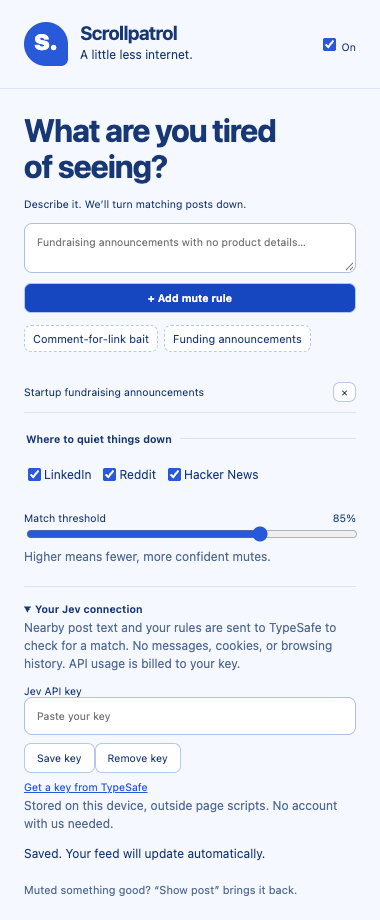
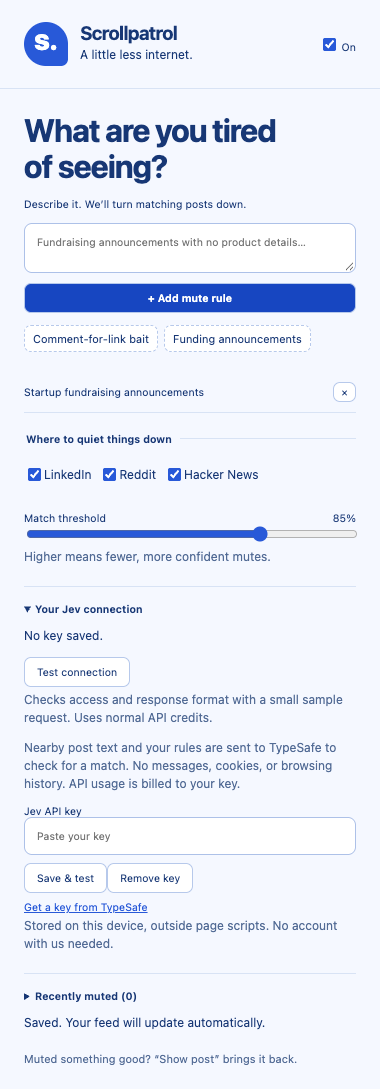
Add verified TypeSafe connection checks and muted post history

diff --git a/src/background.ts b/src/background.ts
@@ -2,8 +2,43 @@ import {normalize,requestFor,decision,siteFor} from './core';
 const ready=chrome.storage.local.setAccessLevel({accessLevel:'TRUSTED_CONTEXTS'});
 const cache=new Map<string,ReturnType<typeof decision>>();
 let chain:Promise<unknown>=Promise.resolve();
+let historyChain:Promise<unknown>=Promise.resolve();
 let backoffUntil=0;
+async function evaluate(apiKey:string,text:string,rules:string[],threshold:number){
+  const res=await fetch('https://api.typesafe.ai/v1/systemone',{method:'POST',headers:{Authorization:`Bearer ${apiKey}`,'Content-Type':'application/json'},body:JSON.stringify(requestFor(text,rules)),signal:AbortSignal.timeout(15000)});
+  if(!res.ok)throw new Error(res.status===401||res.status===403?'TypeSafe rejected this key. Check the key and account access.':res.status===429?'TypeSafe rate limit reached. Wait a moment and try again.':`TypeSafe unavailable (HTTP ${res.status}). Try again shortly.`);
+  return decision((await res.json()).answers,rules,threshold);
+}
+function errorText(e:unknown){return e instanceof Error?(e.name==='TimeoutError'?'TypeSafe timed out. Check your connection and try again.':e.message):'Connection failed. Try again.';}
 chrome.runtime.onMessage.addListener((msg,sender,reply)=>{
+  if(msg?.type==='testConnection'){
+    if(sender.url!==chrome.runtime.getURL('popup.html'))return;
+    void (async()=>{
+      await ready;
+      const {apiKey}=await chrome.storage.local.get('apiKey');
+      if(typeof apiKey!=='string'||!apiKey){reply({ok:false,error:'Add a Jev API key first.'});return;}
+      const started=Date.now();
+      try{
+        await evaluate(apiKey,'We raised a seed round to build our startup.',['Startup fundraising announcements'],.85);
+        if((await chrome.storage.local.get('apiKey')).apiKey!==apiKey){reply({ok:false,error:'Key changed. Test the current key again.'});return;}
+        const connection={ok:true,checkedAt:Date.now(),latencyMs:Date.now()-started};
+        await chrome.storage.local.set({connection});await chrome.storage.local.remove('lastError');backoffUntil=0;reply(connection);
+      }catch(e){const error=errorText(e);if((await chrome.storage.local.get('apiKey')).apiKey===apiKey)await chrome.storage.local.set({connection:{ok:false,checkedAt:Date.now(),error}});reply({ok:false,error});}
+    })();return true;
+  }
+  if(msg?.type==='recordHidden'){
+    const job=historyChain.then(async()=>{
+      await ready;
+      const site=siteFor(new URL(sender.url||'https://invalid').hostname);
+      if(!sender.tab||!site||typeof msg.text!=='string'||typeof msg.rule!=='string')return;
+      let url='';
+      try{const candidate=new URL(msg.url);if(candidate.protocol==='https:'&&siteFor(candidate.hostname)===site)url=candidate.href;}catch{}
+      const {hiddenPosts=[]}=await chrome.storage.local.get('hiddenPosts');
+      const entry={text:msg.text.slice(0,240),rule:msg.rule.slice(0,200),score:typeof msg.score==='number'&&Number.isFinite(msg.score)?Math.max(0,Math.min(1,msg.score)):0,url,site,hiddenAt:Date.now()};
+      const old=Array.isArray(hiddenPosts)?hiddenPosts:[];
+      await chrome.storage.local.set({hiddenPosts:[entry,...old.filter(p=>url?p.url!==url:p.text!==entry.text||p.site!==site)].slice(0,50)});
+    });historyChain=job.catch(()=>{});job.then(()=>reply({ok:true})).catch(()=>reply({ok:false}));return true;
+  }
   if(msg?.type!=='classify') return;
   const run=async()=>{
     await ready;
@@ -12,24 +47,24 @@ chrome.runtime.onMessage.addListener((msg,sender,reply)=>{
     const {settings,apiKey}=await chrome.storage.local.get(['settings','apiKey']);
     const config=normalize(settings);
     if(!config.enabled||!config.sites[site]||!config.rules.length) return {muted:false};
-    if(!apiKey) throw new Error('Add your Jev API key in Scrollpatrol.');
+    if(typeof apiKey!=='string'||!apiKey) throw new Error('Add your Jev API key in Scrollpatrol.');
     const key=JSON.stringify([msg.text,config.rules,config.threshold]);
     if(cache.has(key)) return cache.get(key);
     if(Date.now()<backoffUntil) throw new Error('API paused after an error. Try again shortly.');
-    const res=await fetch('https://api.typesafe.ai/v1/systemone',{method:'POST',headers:{Authorization:`Bearer ${apiKey}`,'Content-Type':'application/json'},body:JSON.stringify(requestFor(msg.text,config.rules)),signal:AbortSignal.timeout(15000)});
-    if(!res.ok){backoffUntil=Date.now()+60000;throw new Error(res.status===401?'Invalid Jev API key. Update it in Scrollpatrol.':`Jev unavailable (${res.status}). Posts remain visible.`);}
-    const result=decision((await res.json()).answers,config.rules,config.threshold);
+    let result;
+    try{result=await evaluate(apiKey,msg.text,config.rules,config.threshold);}catch(e){backoffUntil=Date.now()+60000;throw e;}
     if(cache.size>=1000) cache.delete(cache.keys().next().value!);
     cache.set(key,result);
     await chrome.storage.local.remove('lastError');
     return result;
   };
   const job=chain.then(run); chain=job.catch(()=>{});
-  job.then(reply).catch(async e=>{const error=e instanceof Error?e.message:'Classification failed';await chrome.storage.local.set({lastError:error});reply({muted:false,error});});
+  job.then(reply).catch(async e=>{const error=errorText(e);await chrome.storage.local.set({lastError:error});reply({muted:false,error});});
   return true;
 });
 chrome.storage.onChanged.addListener((changes)=>{
   if(!changes.settings&&!changes.apiKey)return;
   cache.clear();backoffUntil=0;
+  if(changes.apiKey)void chrome.storage.local.remove('connection');
   void chrome.tabs.query({}).then(tabs=>{for(const tab of tabs)if(tab.id)void chrome.tabs.sendMessage(tab.id,{type:'settingsChanged'}).catch(()=>{});});
 });

diff --git a/src/popup.ts b/src/popup.ts
@@ -11,14 +11,42 @@ function render(){
   $<HTMLInputElement>('threshold').value=String(Math.round(config.threshold*100));$('threshold-value').textContent=`${Math.round(config.threshold*100)}%`;
 }
 async function add(rule:string){if(config.rules.length>=10){status('Up to 10 rules for now. Remove one to add another.');return;}if(!rule.trim()||config.rules.includes(rule.trim()))return;config.rules.push(rule.trim().slice(0,200));render();await save();}
-async function init(){const data=await chrome.storage.local.get(['settings','apiKey','lastError']);config=normalize(data.settings);render();$<HTMLDetailsElement>('setup').open=!data.apiKey;status(typeof data.lastError==='string'?data.lastError: (data.apiKey?'Connected. Ready to quiet your feed.':'Add a Jev key to start muting.'));
+async function init(){const data=await chrome.storage.local.get(['settings','apiKey','lastError']);config=normalize(data.settings);render();$<HTMLDetailsElement>('setup').open=!data.apiKey;status(typeof data.lastError==='string'?data.lastError: (data.apiKey?'':'Add a Jev key to start muting.'));
+  await renderDiagnostics();
+  $('test-connection').onclick=()=>{void testConnection();};
+  $('clear-history').onclick=async()=>{await chrome.storage.local.remove('hiddenPosts');await renderDiagnostics();};
+  chrome.storage.onChanged.addListener(changes=>{if(changes.connection||changes.hiddenPosts||changes.apiKey)void renderDiagnostics();if(changes.lastError)status(typeof changes.lastError.newValue==='string'?changes.lastError.newValue:'');});
   $('rule-form').onsubmit=async e=>{e.preventDefault();await add($<HTMLTextAreaElement>('rule').value);$<HTMLTextAreaElement>('rule').value='';};
   document.querySelectorAll<HTMLButtonElement>('[data-rule]').forEach(b=>b.onclick=()=>{void add(b.dataset.rule!);});
   $<HTMLInputElement>('enabled').onchange=async e=>{config.enabled=(e.target as HTMLInputElement).checked;await save();};
   for(const site of ['linkedin','reddit','hn'] as Site[])$<HTMLInputElement>(site).onchange=async e=>{config.sites[site]=(e.target as HTMLInputElement).checked;await save();};
   $<HTMLInputElement>('threshold').oninput=e=>{$('threshold-value').textContent=`${(e.target as HTMLInputElement).value}%`;};
   $<HTMLInputElement>('threshold').onchange=async e=>{config.threshold=Number((e.target as HTMLInputElement).value)/100;await save();};
-  $('key-form').onsubmit=async e=>{e.preventDefault();const key=$<HTMLInputElement>('key');if(!key.value.trim()){status('Paste a key first.');return;}await chrome.storage.local.set({apiKey:key.value.trim()});await chrome.storage.local.remove('lastError');key.value='';status('Key saved. It will be checked on the next feed post.');};
-  $('clear-key').onclick=async()=>{await chrome.storage.local.remove('apiKey');status('Key removed. Posts will remain visible.');};
+  $('key-form').onsubmit=async e=>{e.preventDefault();const key=$<HTMLInputElement>('key');if(!key.value.trim()){status('Paste a key first.');return;}await chrome.storage.local.set({apiKey:key.value.trim()});await chrome.storage.local.remove('lastError');key.value='';await testConnection();};
+  $('clear-key').onclick=async()=>{await chrome.storage.local.remove('apiKey');await chrome.storage.local.remove(['connection','lastError']);await renderDiagnostics();status('Key removed. Posts will remain visible.');};
+}
+async function renderDiagnostics(){
+  const data=await chrome.storage.local.get(['connection','apiKey','hiddenPosts']);
+  const connection=data.connection as {ok:boolean;checkedAt:number;latencyMs?:number;error?:string}|undefined;
+  $('connection-status').textContent=!data.apiKey?'No key saved.':!connection?'Key saved — not tested yet.':connection.ok?`Connection verified · ${connection.latencyMs} ms. Jev returned a valid response at ${new Date(connection.checkedAt).toLocaleString()}.`: `Connection failed: ${connection.error}`;
+  $('connection-status').dataset.state=connection?.ok?'success':connection?'error':'pending';
+  const entries=Array.isArray(data.hiddenPosts)?data.hiddenPosts:[];
+  $('hidden-count').textContent=`(${entries.length})`;
+  $('hidden-posts').replaceChildren();
+  if(!entries.length){const li=document.createElement('li');li.textContent='No muted posts recorded yet.';$('hidden-posts').append(li);}
+  for(const entry of entries){
+    const li=document.createElement('li'),title=document.createElement(entry.url?'a':'span'),meta=document.createElement('small');
+    title.textContent=entry.text;
+    if(title instanceof HTMLAnchorElement){try{const url=new URL(entry.url);if(url.protocol==='https:'){title.href=url.href;title.target='_blank';title.rel='noopener noreferrer';}}catch{}}
+    meta.textContent=`${entry.site} · ${new Date(entry.hiddenAt).toLocaleString()} · ${Math.round(entry.score*100)}% match\nRule: ${entry.rule}${entry.url?'':' · Post link unavailable'}`;
+    li.append(title,meta);$('hidden-posts').append(li);
+  }
+}
+async function testConnection(){
+  const button=$<HTMLButtonElement>('test-connection');button.disabled=true;button.textContent='Testing…';
+  $('connection-status').textContent='Checking TypeSafe with a small sample post…';
+  try{const result=await chrome.runtime.sendMessage({type:'testConnection'});await renderDiagnostics();if(!result?.ok)$('connection-status').textContent=result?.error||'Connection check failed. Try again.';}
+  catch{$('connection-status').textContent='Could not reach the extension. Reload it and try again.';}
+  finally{button.disabled=false;button.textContent='Test connection';}
 }
 void init();

diff --git a/tests/core.test.ts b/tests/core.test.ts
@@ -1,7 +1,7 @@
 import {describe,it,expect} from 'vitest';
 import {JSDOM} from 'jsdom';
 import {normalize,requestFor,decision,siteFor} from '../src/core';
-import {posts,postText,related} from '../src/adapters';
+import {posts,postText,related,postUrl} from '../src/adapters';
 describe('classification',()=>{
  it('only mutes valid scores above the chosen threshold',()=>{expect(decision({r0:{type:'noul',noul:.9}},['fundraising'],.85).muted).toBe(true);expect(decision({r0:{type:'noul',noul:.7}},['fundraising'],.85).muted).toBe(false);});
  it('rejects missing, malformed and out-of-range answers',()=>{for(const a of [{},{r0:{type:'noul',noul:2}},{r0:{type:'noul',noul:NaN}},{r0:{type:'choice',noul:.9}}])expect(()=>decision(a,['x'],.85)).toThrow();});
@@ -14,4 +14,11 @@ describe('site adapters',()=>{
  it('groups HN titles with their metadata, not the next post',()=>{const d=new JSDOM('<table><tr class="athing"><td><span class="titleline">Raised a seed round</span></td></tr><tr><td class="subtext">12 comments</td></tr><tr class="athing"><td><span class="titleline">Useful project</span></td></tr></table>').window.document;const p=posts(d,'hn');expect(p).toHaveLength(2);expect(postText(p[0],'hn')).toBe('Raised a seed round');expect(related(p[0],'hn')).toHaveLength(2);});
  it('extracts Reddit posts without comments',()=>{const d=new JSDOM('<shreddit-post post-title="Funding news"><p slot="title">Funding news</p><div slot="text-body">We raised money</div></shreddit-post><shreddit-comment>Comment</shreddit-comment>').window.document;expect(posts(d,'reddit')).toHaveLength(1);expect(postText(posts(d,'reddit')[0],'reddit')).toBe('Funding news We raised money');});
  it('extracts LinkedIn post body without action buttons',()=>{const d=new JSDOM('<div class="feed-shared-update-v2"><div class="update-components-text">My funding news</div><button>Like</button></div>').window.document;expect(postText(posts(d,'linkedin')[0],'linkedin')).toBe('My funding news');});
+});
+
+describe('post permalinks',()=>{
+ it('links to HN discussion instead of the external article',()=>{const d=new JSDOM('<table><tr class="athing" id="123"><td>Title</td></tr></table>').window.document;expect(postUrl(d.querySelector('tr')!,'hn')).toBe('https://news.ycombinator.com/item?id=123');});
+ it('resolves modern and old Reddit permalinks',()=>{const d=new JSDOM('<shreddit-post permalink="/r/test/comments/abc/title/"></shreddit-post><div class="thing link"><a class="comments" href="/r/test/comments/def/title/">comments</a></div>',{url:'https://www.reddit.com/'}).window.document;expect(postUrl(posts(d,'reddit')[0],'reddit')).toBe('https://www.reddit.com/r/test/comments/abc/title/');expect(postUrl(posts(d,'reddit')[1],'reddit')).toBe('https://www.reddit.com/r/test/comments/def/title/');});
+ it('builds LinkedIn activity links and leaves missing links empty',()=>{const d=new JSDOM('<div data-urn="urn:li:activity:123"></div><section></section>').window.document;expect(postUrl(d.querySelector('div')!,'linkedin')).toBe('https://www.linkedin.com/feed/update/urn:li:activity:123/');expect(postUrl(d.querySelector('section')!,'linkedin')).toBe('');});
+ it('rejects executable links',()=>{const d=new JSDOM('<shreddit-post permalink="javascript:alert(1)"></shreddit-post>').window.document;expect(postUrl(posts(d,'reddit')[0],'reddit')).toBe('');});
 });

diff --git a/public/popup.html b/public/popup.html
@@ -6,5 +6,6 @@
 <ul id="rules"></ul><p id="empty">Nothing muted yet. Add your first rule above.</p>
 <fieldset><legend>Where to quiet things down</legend><label><input id="linkedin" type="checkbox"> LinkedIn</label><label><input id="reddit" type="checkbox"> Reddit</label><label><input id="hn" type="checkbox"> Hacker News</label></fieldset>
 <label class="range" for="threshold">Match threshold <output id="threshold-value"></output></label><input id="threshold" type="range" min="50" max="99"><p class="hint">Higher means fewer, more confident mutes.</p>
-<details id="setup"><summary>Your Jev connection</summary><p class="hint">Nearby post text and your rules are sent to TypeSafe to check for a match. No messages, cookies, or browsing history. API usage is billed to your key.</p><form id="key-form"><label for="key">Jev API key</label><input id="key" type="password" autocomplete="off" placeholder="Paste your key"><button type="submit">Save key</button><button id="clear-key" type="button">Remove key</button></form><a href="https://console.typesafe.ai" target="_blank" rel="noreferrer">Get a key from TypeSafe</a><p class="hint">Stored on this device, outside page scripts. No account with us needed.</p></details>
+<details id="setup"><summary>Your Jev connection</summary><p id="connection-status" role="status" aria-live="polite"></p><button id="test-connection" type="button">Test connection</button><p class="hint">Checks access and response format with a small sample request. Uses normal API credits.</p><p class="hint">Nearby post text and your rules are sent to TypeSafe to check for a match. No messages, cookies, or browsing history. API usage is billed to your key.</p><form id="key-form"><label for="key">Jev API key</label><input id="key" type="password" autocomplete="off" placeholder="Paste your key"><button type="submit">Save &amp; test</button><button id="clear-key" type="button">Remove key</button></form><a href="https://console.typesafe.ai" target="_blank" rel="noreferrer">Get a key from TypeSafe</a><p class="hint">Stored on this device, outside page scripts. No account with us needed.</p></details>
+<details id="debug"><summary>Recently muted <span id="hidden-count"></span></summary><p class="hint">Last 50 posts muted on this device. Includes posts you later revealed. Kept until cleared; links open the original post.</p><ul id="hidden-posts"></ul><button id="clear-history" type="button">Clear history</button></details>
 <p id="status" role="status" aria-live="polite"></p><footer>Muted something good? “Show post” brings it back.</footer></main><script src="popup.js"></script></body></html>

diff --git a/public/popup.css b/public/popup.css
@@ -1,1 +1,3 @@
 :root{font-family:"Avenir Next",Avenir,system-ui,sans-serif;color:#173775;background:#f5f8ff;font-size:14px}*{box-sizing:border-box}body{width:380px;margin:0}header{display:flex;align-items:center;gap:12px;padding:22px 24px;border-bottom:1px solid #d8e3f5}.mark{background:#2859d8;color:white;font-size:29px;font-weight:800;width:44px;height:44px;border-radius:50% 50% 16% 50%;text-align:center}h1{font-size:19px;margin:0;letter-spacing:-.7px}header p{margin:2px 0;font-size:12px}.power{margin-left:auto}main{padding:24px}h2{font-size:32px;line-height:1.12;letter-spacing:-1.1px;margin:0 0 12px}p{line-height:1.5}textarea,input[type=password]{width:100%;padding:12px;border:1px solid #adc1e8;border-radius:8px;background:white;font:inherit;color:inherit}textarea{resize:vertical}button{font:inherit;cursor:pointer;color:inherit;background:white;border:1px solid #b7c9eb;border-radius:7px;padding:8px 12px}button:hover{background:#e3edff}button:focus-visible,input:focus-visible,textarea:focus-visible,summary:focus-visible{outline:3px solid #ed993c;outline-offset:3px}.primary{background:#2859d8;color:white;width:100%;margin-top:8px;font-weight:650}.primary:hover{background:#1746c1}.examples{display:flex;gap:6px;margin:12px 0}.examples button{font-size:11px;padding:6px 8px;border-style:dashed}ul{list-style:none;padding:0;margin:20px 0}li{display:flex;align-items:center;gap:10px;padding:10px 0;border-bottom:1px solid #d8e3f5}li span{flex:1;overflow-wrap:anywhere}li button{padding:3px 7px}fieldset{border:0;border-top:1px solid #d8e3f5;padding:16px 0;margin:18px 0 8px}legend{padding-right:8px;font-weight:650}fieldset label{display:inline-flex;align-items:center;margin:4px 8px 4px 0;font-size:12px}input{accent-color:#2859d8}.range{display:flex;justify-content:space-between}input[type=range]{width:100%}.hint,#empty{font-size:12px;color:#526b95}.hint{margin-top:4px}details{border-top:1px solid #d8e3f5;padding-top:16px;margin-top:20px}summary{cursor:pointer;font-weight:650}#key-form button{margin:8px 0}a{color:#2859d8}#status{font-size:12px;overflow-wrap:anywhere}footer{font-size:11px;color:#526b95;margin-top:20px}.sr-only{position:absolute;width:1px;height:1px;overflow:hidden;clip:rect(0,0,0,0)}
+
+#connection-status{font-size:12px;line-height:1.5}#connection-status[data-state=success]{color:#176148}#connection-status[data-state=error]{color:#aa2f32}#hidden-posts{max-height:280px;overflow:auto;margin:12px 0}#hidden-posts li{display:block;font-size:12px;overflow-wrap:anywhere}#hidden-posts small{display:block;color:#526b95;white-space:pre-line;margin-top:6px}button:disabled{opacity:.6;cursor:wait}

diff --git a/src/content.ts b/src/content.ts
@@ -1,5 +1,5 @@
 import {siteFor} from './core';
-import {posts,postText,related} from './adapters';
+import {posts,postText,related,postUrl} from './adapters';
 const site=siteFor(location.hostname)!;
 const seen=new WeakMap<HTMLElement,string>();
 const revealed=new WeakMap<HTMLElement,string>();
@@ -33,7 +33,10 @@ async function scan(){
     const result=await chrome.runtime.sendMessage({type:'classify',text});
     if(current!==generation){seen.delete(el);break;}
     if(result?.error){seen.delete(el);retryAt.set(el,Date.now()+60000);setTimeout(schedule,61000);}
-    if(result?.muted&&el.isConnected&&postText(el,site)===text)collapse(el,result.rule,text);
+    if(result?.muted&&el.isConnected&&postText(el,site)===text){
+      collapse(el,result.rule,text);
+      void chrome.runtime.sendMessage({type:'recordHidden',text,rule:result.rule,score:result.score,url:postUrl(el,site)}).catch(()=>{});
+    }
   }}catch{/* Navigations and extension reloads leave the feed visible. */}finally{busy=false;if(current!==generation)schedule();}
 }
 let timer:ReturnType<typeof setTimeout>;

diff --git a/src/adapters.ts b/src/adapters.ts
@@ -12,3 +12,13 @@ export function related(el:HTMLElement,site:Site):HTMLElement[] {
   const next=el.nextElementSibling as HTMLElement|null;
   return site==='hn'&&next?.querySelector('.subtext')?[el,next]:[el];
 }
+export function postUrl(el:HTMLElement,site:Site):string {
+  if(site==='hn'&&/^\d+$/.test(el.id))return `https://news.ycombinator.com/item?id=${el.id}`;
+  if(site==='linkedin'){
+    const urn=el.getAttribute('data-urn');
+    if(urn&&/^urn:li:activity:\d+$/.test(urn))return `https://www.linkedin.com/feed/update/${urn}/`;
+  }
+  const raw=site==='reddit'?(el.getAttribute('permalink')||el.querySelector<HTMLAnchorElement>('a.comments, a[href*="/comments/"]')?.getAttribute('href')):el.querySelector<HTMLAnchorElement>('a[href*="/feed/update/"], a[href*="/posts/"]')?.getAttribute('href');
+  if(!raw)return '';
+  try{const url=new URL(raw,el.ownerDocument.location.href);if(url.protocol!=='https:')return '';return url.href;}catch{return '';}
+}

diff --git a/README.md b/README.md
@@ -8,7 +8,7 @@ Describe what you don't want to see: “engagement bait asking me to comment for
 
 1. Install Node.js 22+ and run `npm ci && npm run build`.
 2. Open `chrome://extensions`, enable **Developer mode**, select **Load unpacked**, and choose `dist/`.
-3. Open Scrollpatrol from the extensions menu. Add your own [TypeSafe API key](https://console.typesafe.ai) and one or more mute rules.
+3. Open Scrollpatrol from the extensions menu. Add your own [TypeSafe API key](https://console.typesafe.ai) and one or more mute rules. **Save & test** makes a small Jev request and reports whether a valid response came back, with latency and the check time.
 4. Open or reload a supported feed. The popup lets you pause filtering, disable individual sites, and adjust the match threshold.
 
 The source is free and MIT licensed. Jev is a hosted API, not an included local model; your API usage is billed by TypeSafe. This is an unpacked alpha, not a Chrome Web Store release.
@@ -16,6 +16,12 @@ The source is free and MIT licensed. Jev is a hosted API, not an included local 
 ## Preview
 
 ![Scrollpatrol popup](popup-preview.png)
+
+## Connection checks and mute history
+
+Open **Your Jev connection** to retest a saved key. A saved key is not shown as connected until a live test succeeds. The test checks authentication and the response format, not real-world classification accuracy; it uses a tiny sample post and incurs normal API usage.
+
+**Recently muted** is a collapsed debugging panel with the latest 50 muted posts: excerpt, original post link when available, matching rule, score, site, and timestamp. It records posts actually collapsed by the content script, including cached decisions. It is a historical log, so entries remain after you reveal a post or disable filtering. Repeated posts are deduplicated. **Clear history** removes the local log. No log is uploaded.
 
 ## First sites
 
@@ -27,9 +33,9 @@ Comments, private messages, image-only content, video/audio and full linked arti
 
 ## Privacy and behavior
 
-No analytics, account, backend, or remote executable code. Your key and rules stay in Chrome local storage (not sync). Only the extension's trusted contexts can read that storage. The service worker sends up to 6,000 characters of nearby post text and your rules directly to `api.typesafe.ai` for classification. Do not use it on feeds whose text you do not want to send to TypeSafe; their data policies apply. The extension never sends cookies or collects browsing history.
+No analytics, account, backend, or remote executable code. Your key and rules stay in Chrome local storage (not sync). Only the extension's trusted contexts can read that storage. The service worker sends up to 6,000 characters of nearby post text and your rules directly to `api.typesafe.ai` for classification. Do not use it on feeds whose text you do not want to send to TypeSafe; their data policies apply. The extension never sends cookies or collects general browsing history. It stores up to 50 muted-post excerpts (240 characters each), links, matching rules, scores, and timestamps locally until cleared or replaced by newer entries.
 
-Classification runs sequentially as posts approach the viewport. Up to 1,000 decisions are cached in service-worker memory; they expire when the worker stops or settings change. A page reload may therefore generate more API usage. Each post evaluates at most 10 rules in one API request. No API requests run until a key and a rule are configured. Posts stay visible during evaluation and on failure. API HTTP failures trigger a one-minute cooldown. There is no hard dollar spending cap in the extension; use provider limits if needed.
+Classification runs sequentially as posts approach the viewport. Up to 1,000 decisions are cached in service-worker memory; they expire when the worker stops or settings change. A page reload may therefore generate more API usage. Each post evaluates at most 10 rules in one API request. Feed classification does not run until a key and a rule are configured. Connection tests only require a saved key. Posts stay visible during evaluation and on failure. API HTTP failures trigger a one-minute cooldown. There is no hard dollar spending cap in the extension; use provider limits if needed.
 
 The default match threshold is 85%. This is a model score, not a guarantee. Posts are untrusted input and the classifier is instructed to ignore instructions inside them; adversarial posts can still cause misclassification. Every mute is reversible. Pausing, changing rules, or disabling a site restores hidden posts and reevaluates the feed.
 
